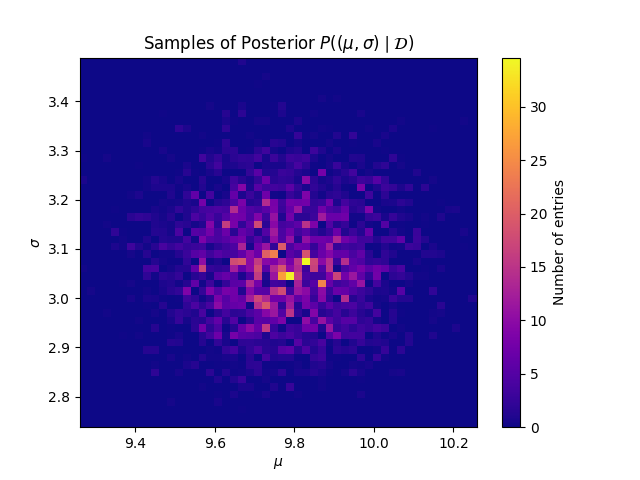
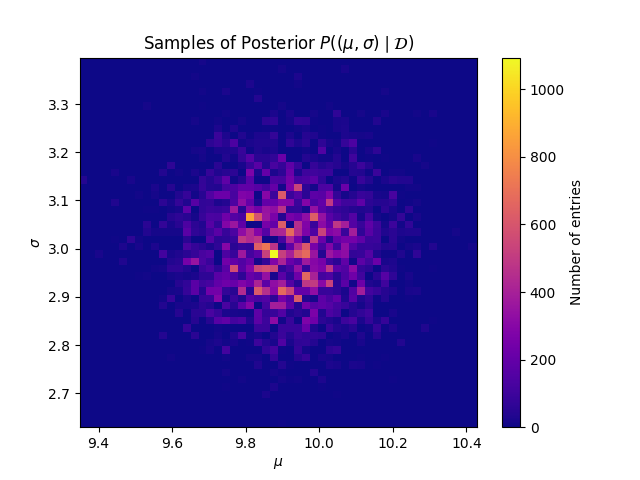
Changed heatmap plot to show absolute number of occurrences

diff --git a/python_prototyping/hamiltonian_mcmc.py b/python_prototyping/hamiltonian_mcmc.py
@@ -172,7 +172,7 @@ plt.close()
 x = samples[:, 0]
 y = samples[:, 1]
 
-plt.hist2d(x, y, bins=50, density=True, cmap='plasma')
+plt.hist2d(x, y, bins=50, density=False, cmap='plasma')
 
 # Plot a colorbar with label.
 cb = plt.colorbar()

diff --git a/python_prototyping/mh_mcmc.py b/python_prototyping/mh_mcmc.py
@@ -129,7 +129,7 @@ plt.close()
 x = samples[:, 0]
 y = samples[:, 1]
 
-plt.hist2d(x, y, bins=50, density=True, cmap='plasma')
+plt.hist2d(x, y, bins=50, density=False, cmap='plasma')
 
 # Plot a colorbar with label.
 cb = plt.colorbar()
